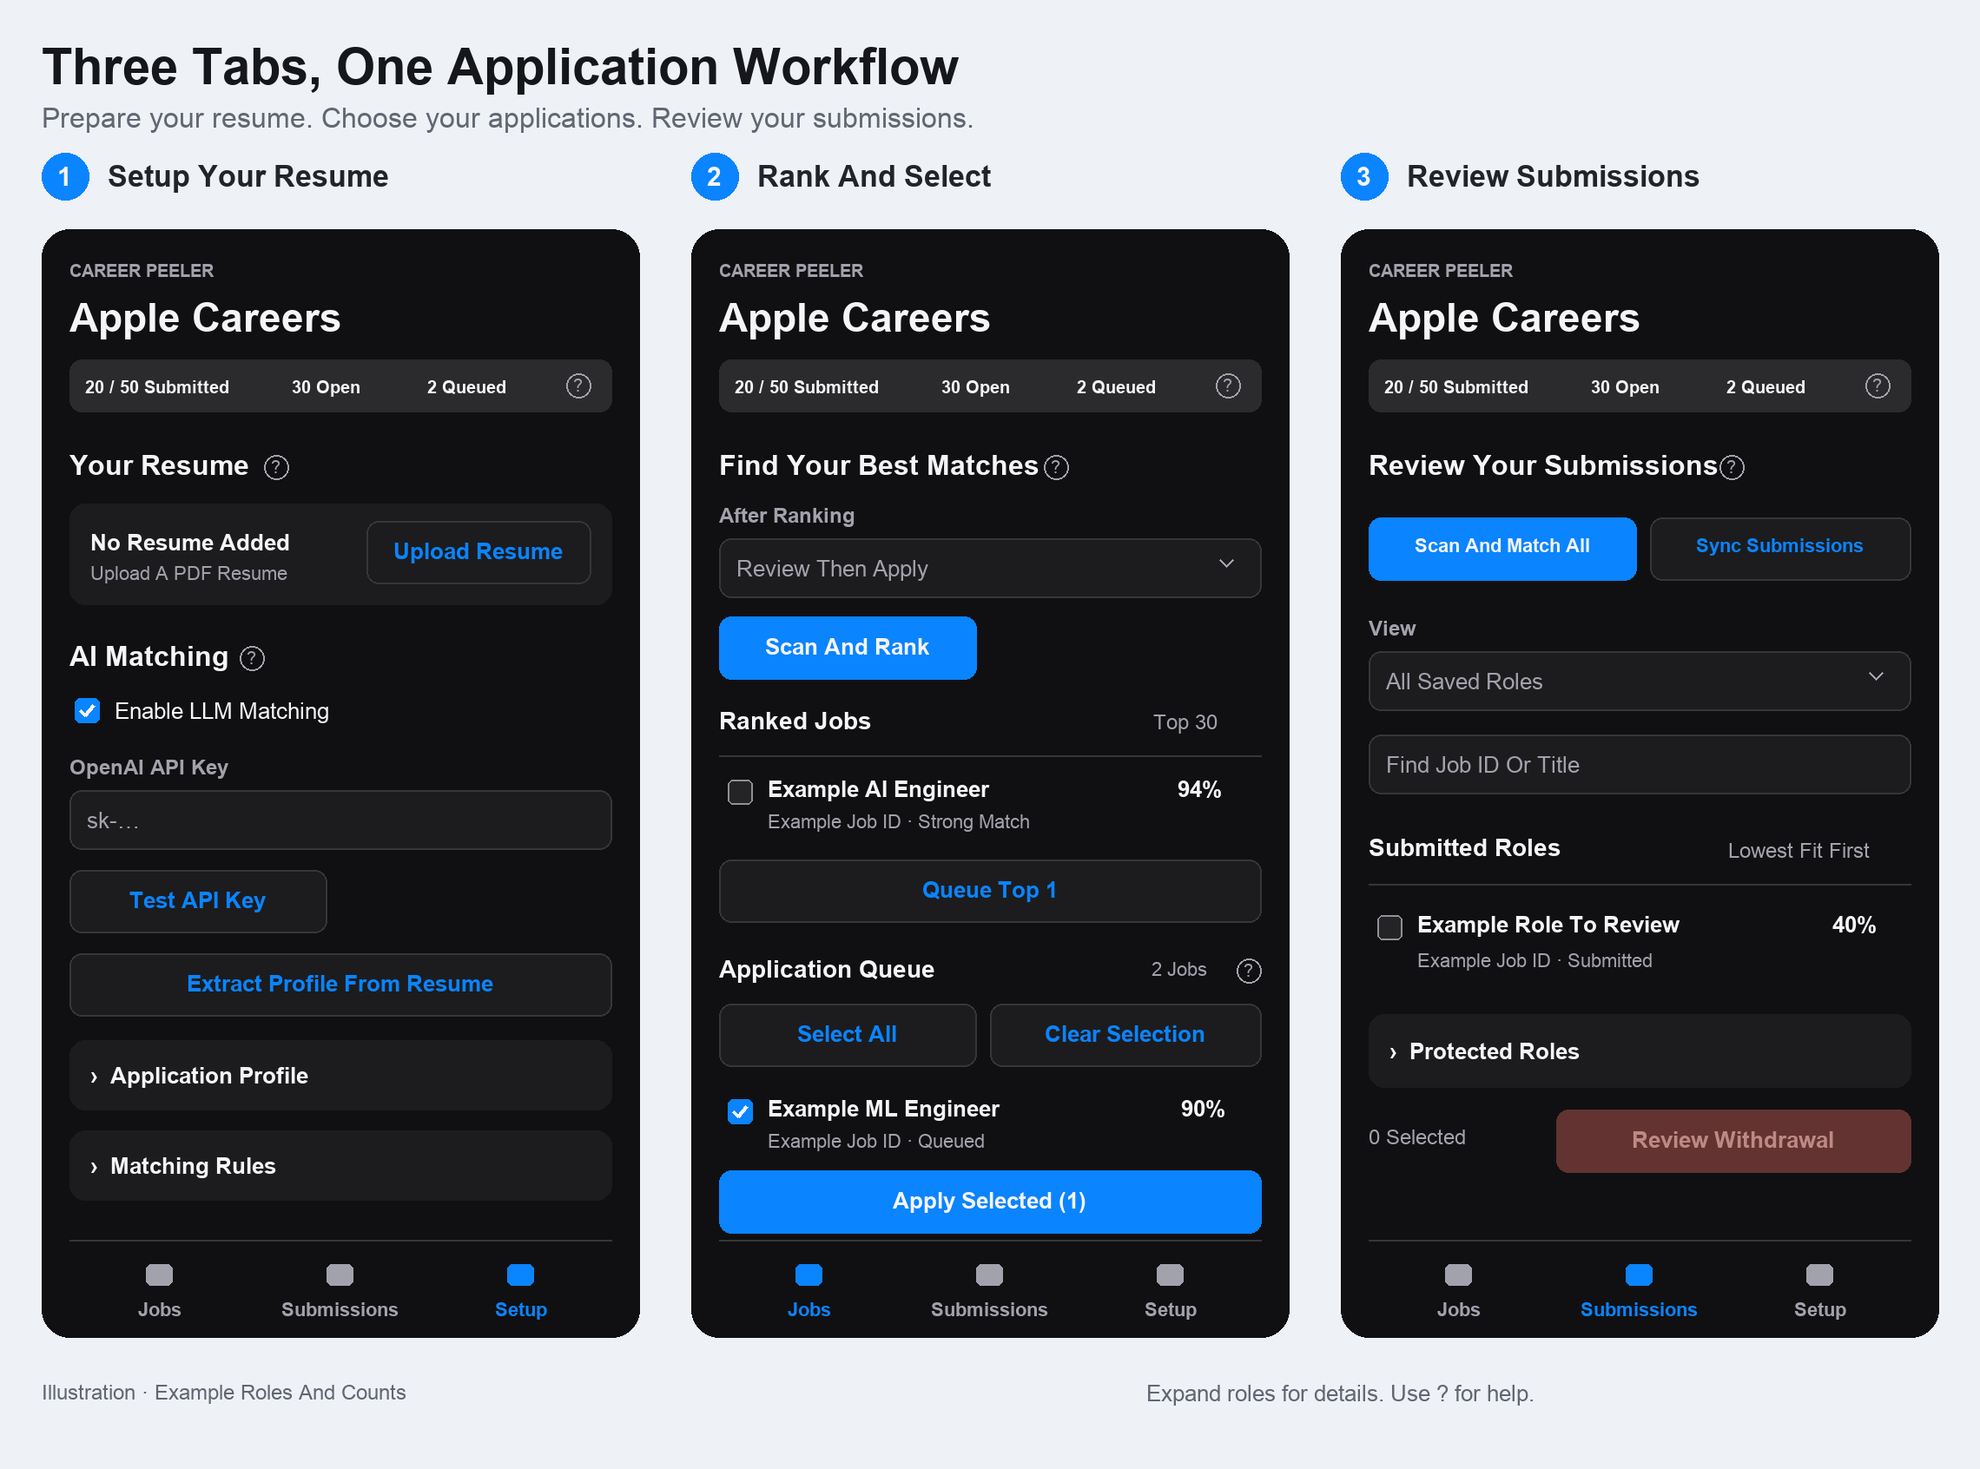
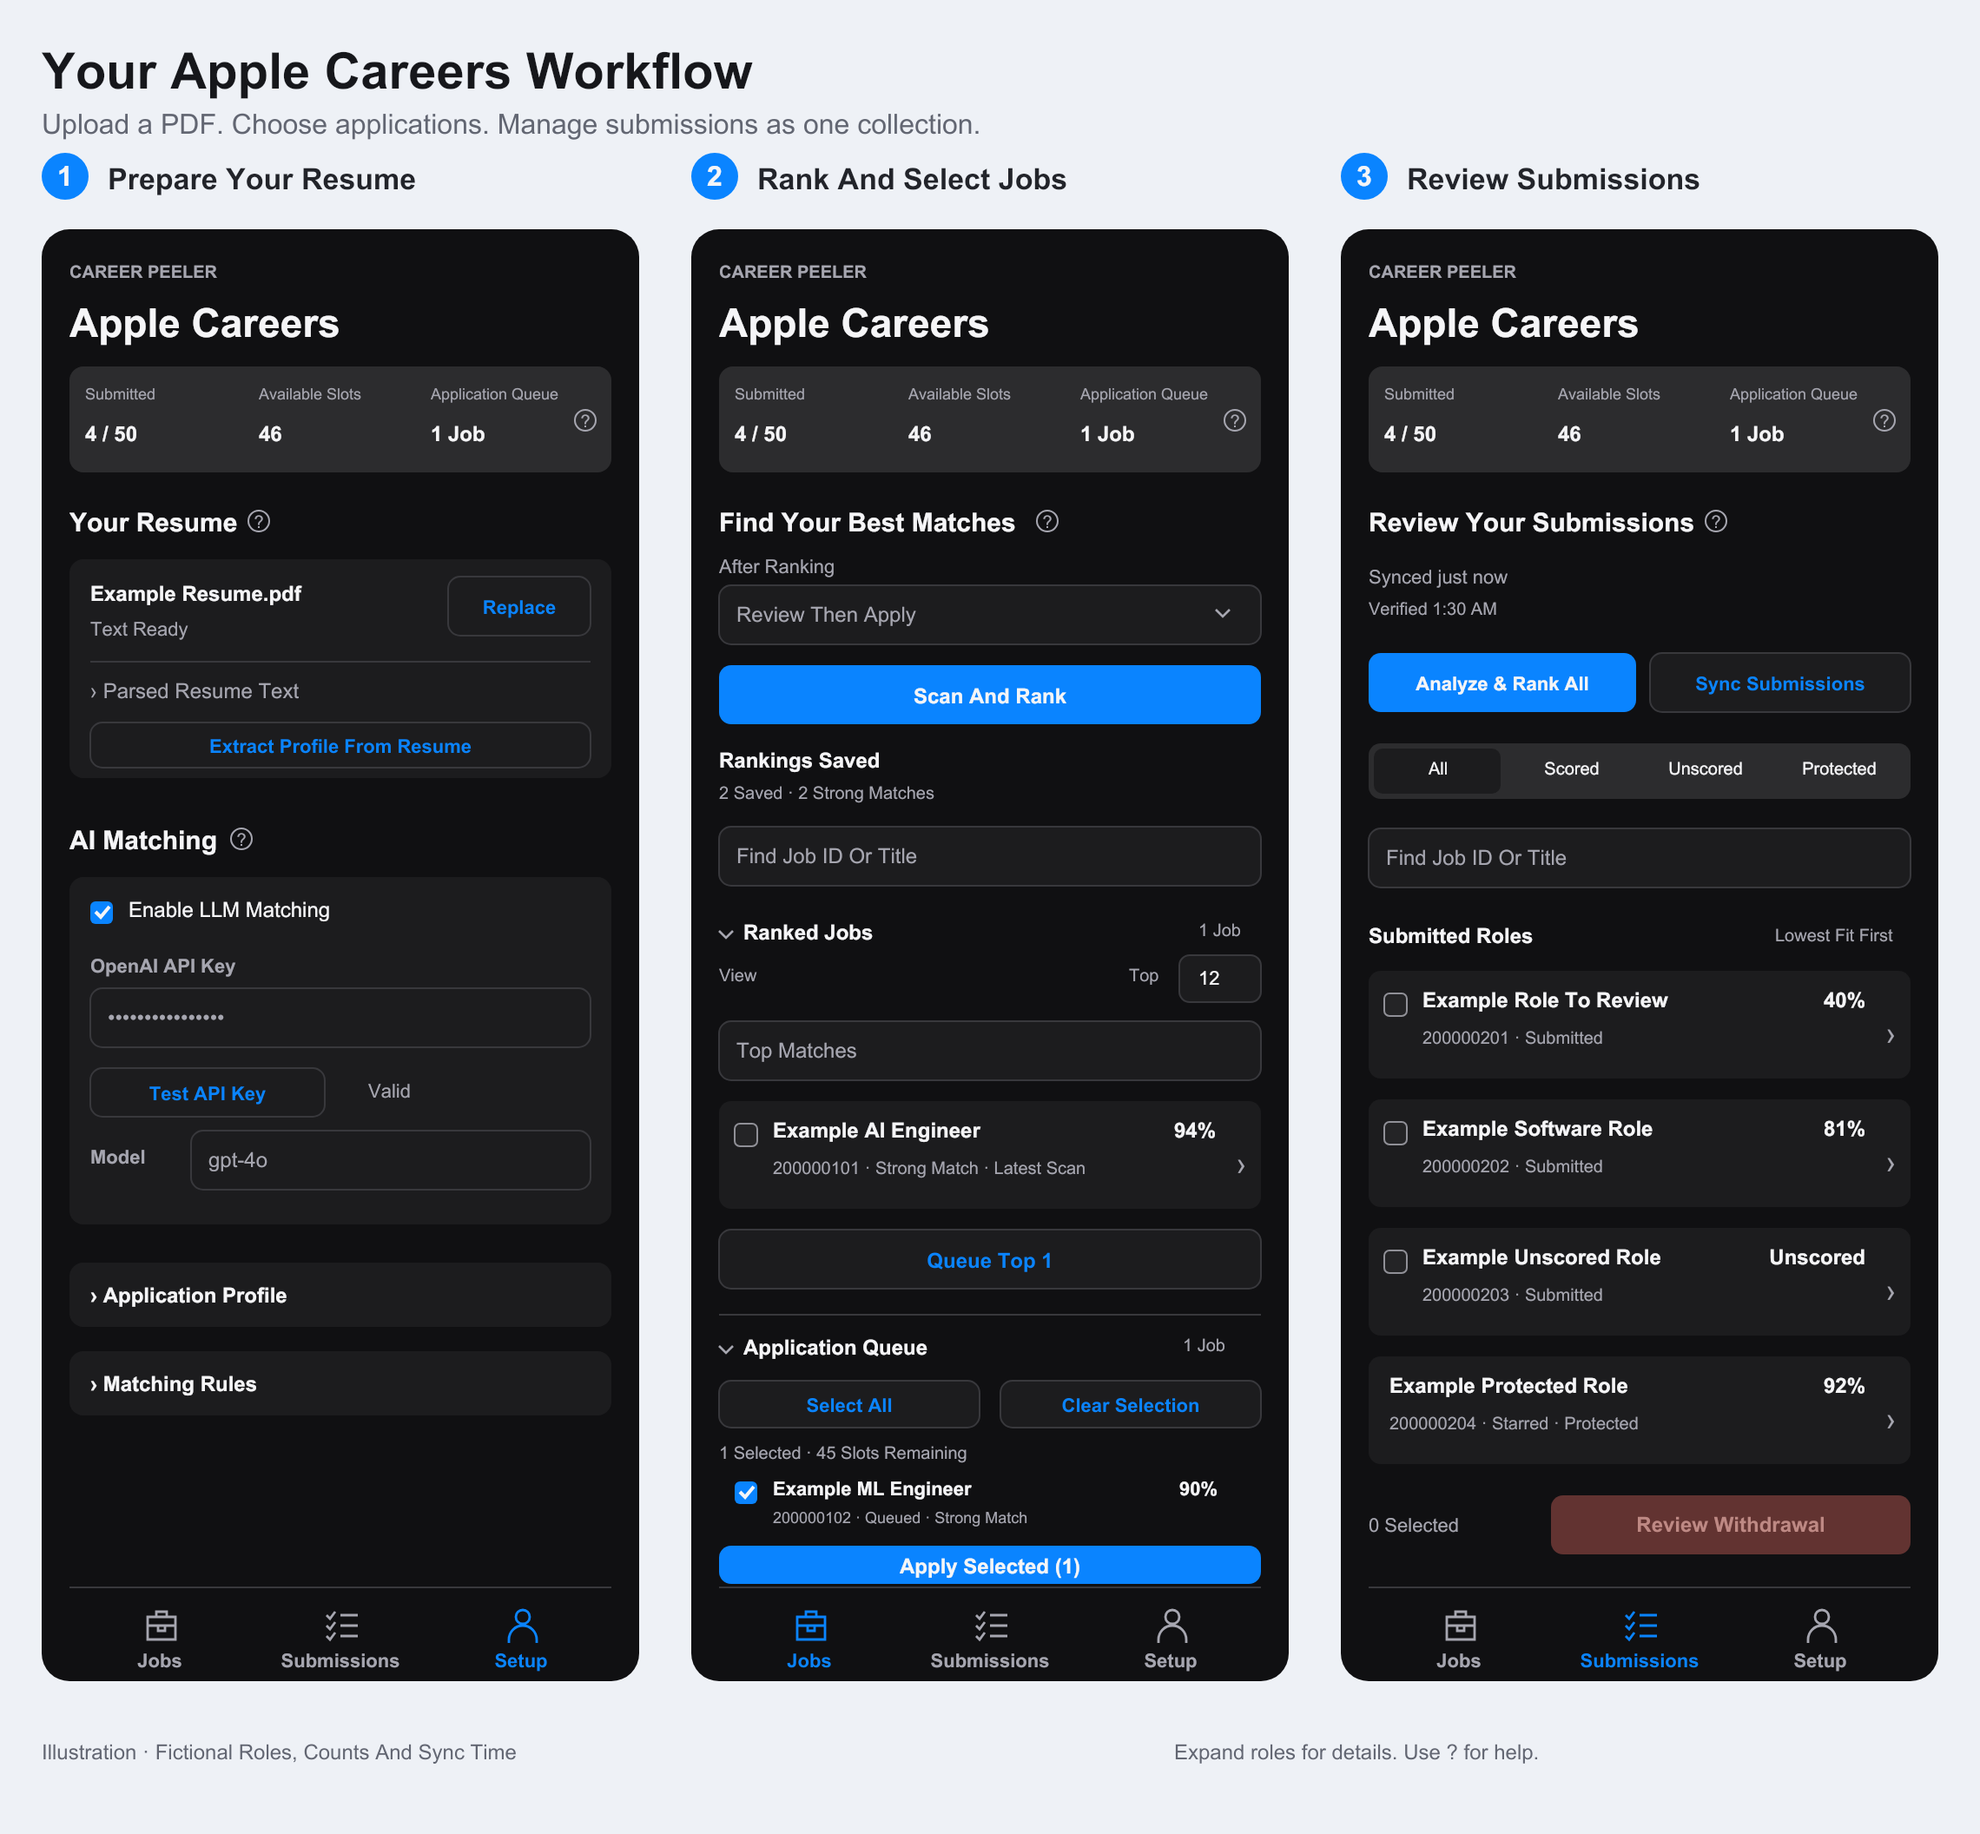
Refresh README instructions and current UI illustration

diff --git a/README.md b/README.md
@@ -2,9 +2,9 @@
 
 An unofficial Chrome extension for Apple Careers. Upload your resume, rank filtered jobs, choose which ones to apply for, and review your existing submissions.
 
-![UI guide showing the Setup, Jobs, and Submissions tabs](docs/images/ui-guide.png)
+![UI guide showing labeled capacity, resume setup, job selection, and unified submission filters](docs/images/ui-guide.png)
 
-*Illustration of the extension's controls. Roles and counts are examples.*
+*Illustration of the current controls. Roles, counts, and sync time are fictional examples.*
 
 ## Install
 
@@ -20,7 +20,7 @@ In Chrome, open **Extensions → Developer Mode → Load Unpacked** and select `
 ## Start With Setup
 
 1. Open **Setup → Your Resume → Upload Resume** and choose a PDF.
-2. Under **AI Matching**, enable **LLM Matching**, enter your OpenAI API key, choose a model, and click **Test API Key**.
+2. Under **AI Matching**, check **Enable LLM Matching**, enter your OpenAI API key, choose a model, and click **Test API Key**.
 3. Click **Extract Profile From Resume** if the profile is not ready. Review the extracted profile and **Parsed Resume Text**.
 4. Expand **Application Profile** and check your experience, required application answers, work authorization, and sponsorship settings.
 
@@ -41,13 +41,13 @@ Selected roles are processed in score order after checking available slots. Unse
 
 A live selection counter shows how many slots remain to be covered. It tells you when enough roles are selected and when the selection exceeds available slots. Extra selections are allowed as backups if an application fails. The capacity notice stays visible while you scroll the application queue and is repeated in the confirmation sheet.
 
-**Preparing Batch** loads your selected roles' saved scores. After confirmation, **Checking Submission Capacity** verifies active applications in a temporary tab before applying. This check can take several seconds while Apple loads each submissions page.
+**Preparing Batch** loads your selected roles' saved scores. After confirmation, **Checking Submission Capacity** verifies all active applications before applying. It reuses a suitable submissions tab in the same window and restores its page, or opens and closes a temporary background tab. This check can take several seconds while Apple loads each submissions page.
 
 ### Apply Strong Matches Automatically
 
 Set **After Ranking** to **Auto Apply Strong Matches**, check **I Allow Strong Match Applications After Ranking**, then click **Scan And Rank**. Applications begin only after the full search finishes successfully. Roles with match concerns remain available for manual review.
 
-The header shows **Submitted**, **Open**, and **Queued** counts. The extension uses a conservative target of 50 active submissions and verifies the count before applying.
+The header labels **Submitted**, **Available Slots**, and **Application Queue** separately. **Cached Count** identifies a previously verified count; **Not Verified** and **—** mean current capacity is unknown, not zero. Capacity includes pending reservations, uses a conservative limit of 50 active submissions, and is checked again before applying.
 
 ## Review Existing Submissions
 
@@ -58,9 +58,11 @@ Open **Submissions** in the extension.
 | **Sync Submissions** | Updates saved submissions and the count without new AI matching. Reuses a ready submissions tab in the same window and restores its page, or opens and closes a temporary background tab. Your filtered search stays in place. |
 | **Analyze & Rank All** | Reads all submissions and scores roles against your resume. Reviewable roles appear with the lowest fit first. |
 
-Saved submissions appear as one collection. Use **All**, **Scored**, **Unscored**, or **Protected**, and **Find Job ID Or Title** to locate a role. Check the applications you want to withdraw, click **Review Withdrawal**, and review the confirmation sheet before continuing. Protected roles cannot be selected. A partial update retains older saved roles with a visible warning until the complete inventory is verified.
+Saved submissions load immediately as one deduplicated collection. Use **All**, **Scored**, **Unscored**, or **Protected**, and **Find Job ID Or Title** to locate a role. Check the applications you want to withdraw, click **Review Withdrawal**, and review the confirmation sheet before continuing. Protected roles cannot be selected. A partial update retains older saved roles with a visible warning until the complete inventory is verified.
 
-Visiting Apple's **Submissions → Active** automatically checks the current page without opening tabs, moving through pages, or running AI analysis. When the inventory spans multiple pages, automatic sync is deferred; use **Sync Submissions** to verify all pages and restore your place. The compact sync indicator shows progress, the last successful timestamp, failures with **Retry**, and deferrals while another workflow is running.
+Visiting Apple's **Submissions → Active** automatically checks the current page without opening tabs, moving through pages, or running AI analysis. It can verify the count when the complete inventory fits on one page. For multiple pages, automatic sync is deferred; use **Sync Submissions** to verify all pages and restore your place.
+
+The compact sync indicator shows **Syncing**, the last successful sync time, **Sync Failed** with **Retry**, or **Sync Deferred**. Its last successful timestamp survives panel reopening and worker restarts. An interrupted or failed check leaves capacity unverified until a complete sync succeeds. **Analyze & Rank All** is the separate action for AI scoring.
 
 **Apple withdrawals cannot be undone, and you cannot reapply for a withdrawn role.**
 
@@ -72,7 +74,7 @@ Visiting Apple's **Submissions → Active** automatically checks the current pag
 
 After a manual application is verified, its earlier failure is labeled **Submitted Later** and kept under **Previous Failure**. New application activity is grouped by job and includes each Continue step. Older unassigned activity can contain steps from several roles.
 
-To apply one reviewed role, open its Apple job page and choose **Apply This Role** in the Jobs tab. Review the role and confirm submission. The extension checks available slots, then completes the application stages using your saved profile. It does not require a queue entry or a strong match score. If a step fails, the application stays open and Activity records the job link and reason. Applications with an unknown previous outcome are checked against current submissions before retrying.
+To apply one reviewed role, open its Apple job page and choose **Apply This Role** in the Jobs tab. Review the role and confirm submission. The extension checks available slots, then completes the application stages using your saved profile. It does not require a queue entry or a strong match score. If a step fails, the application stays open and Activity records the job link and reason. A previous unknown Submit outcome requires reconciliation; absence from the submissions list alone does not authorize an automatic retry.
 
 Small **?** buttons explain controls. Expand a role to see its details; opening another role in the same list closes the previous one.
 
@@ -84,6 +86,6 @@ Reloading restores saved rankings, your Top setting, search text, and View filte
 
 Resume and job data are saved on your device. AI features send the PDF or relevant resume and job information to OpenAI using your key. See [Privacy](PRIVACY.md) and [Storage Details](docs/storage.md).
 
-After editing the extension, run `npm run build` and reload it in Chrome's Extensions page. The same installation retains saved data. The React side panel is bundled; background, content, and shared library scripts are copied into `dist/`.
+After editing the extension, run `npm run build` and reload it in Chrome's Extensions page. Reload open Apple Careers pages too so they use the current page reader. The same installation retains saved data. The React side panel is bundled; background, content, and shared library scripts are copied into `dist/`.
 
 For development, install dependencies with `npm ci`, then run `npm test` and `npm run check`. The default test command discovers every top-level test file, runs all suites with Node's test runner, and blocks unmocked fetch requests. Tests use synthetic Apple pages and in-memory IndexedDB; they do not submit or withdraw real applications. See [Testing](docs/testing.md) for fixtures and coverage limits.
